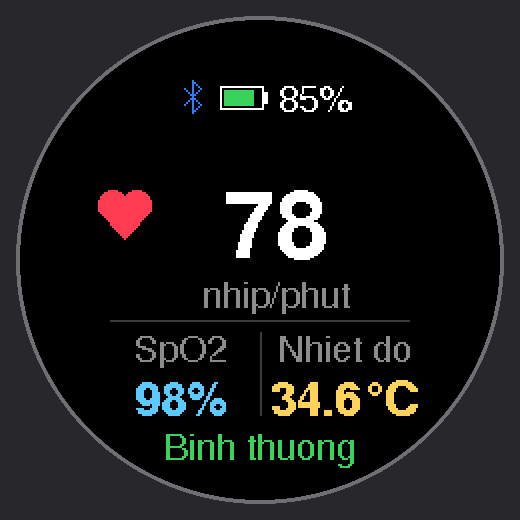
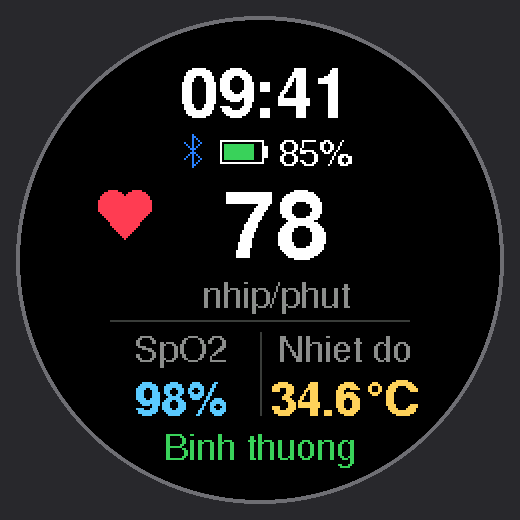
Xem giờ: biên dịch 30/10, vẽ lại ảnh xem trước màn hình
- Biên dịch ble_suc_khoe cho Seeed XIAO nRF52840 Sense (core 1.1.13): 0 lỗi,
  Flash 173704 byte (21 %), RAM 24380 byte (10 %).
- man_hinh.h: bộ đệm giờ 6 -> 12 byte để hết cảnh báo snprintf (như bộ đệm nhiệt độ).
- Vẽ lại 8 ảnh xem trước và ảnh tổng hợp bằng đúng man_hinh.h: giờ 09:41 / --:-- ở trên cùng
  không đè lên hàng Bluetooth + pin và số nhịp tim.
- firmware/README.md: ghi kết quả biên dịch 30/10.

Claude-Session: https://claude.ai/code/session_01DtVKYLjz9b4xdEphcSQTzb

Changed region(s): [[0.3385, 0.1231, 0.6769, 0.3385]]

diff --git a/firmware/ble_suc_khoe/man_hinh.h b/firmware/ble_suc_khoe/man_hinh.h
@@ -152,7 +152,7 @@ private:
     // Gio tren cung
     if (het || s.phutTrongNgay != cu.phutTrongNgay) {
       g.fillRect(56, 14, 128, 40, MH_DEN);
-      char gio[6];
+      char gio[12];
       if (s.phutTrongNgay >= 0) snprintf(gio, sizeof gio, "%02d:%02d", s.phutTrongNgay / 60, s.phutTrongNgay % 60);
       else strcpy(gio, "--:--");
       chuGiua(g, gio, 120, 48, &FreeSansBold18pt7b, s.phutTrongNgay >= 0 ? MH_TRANG : MH_XAM);
